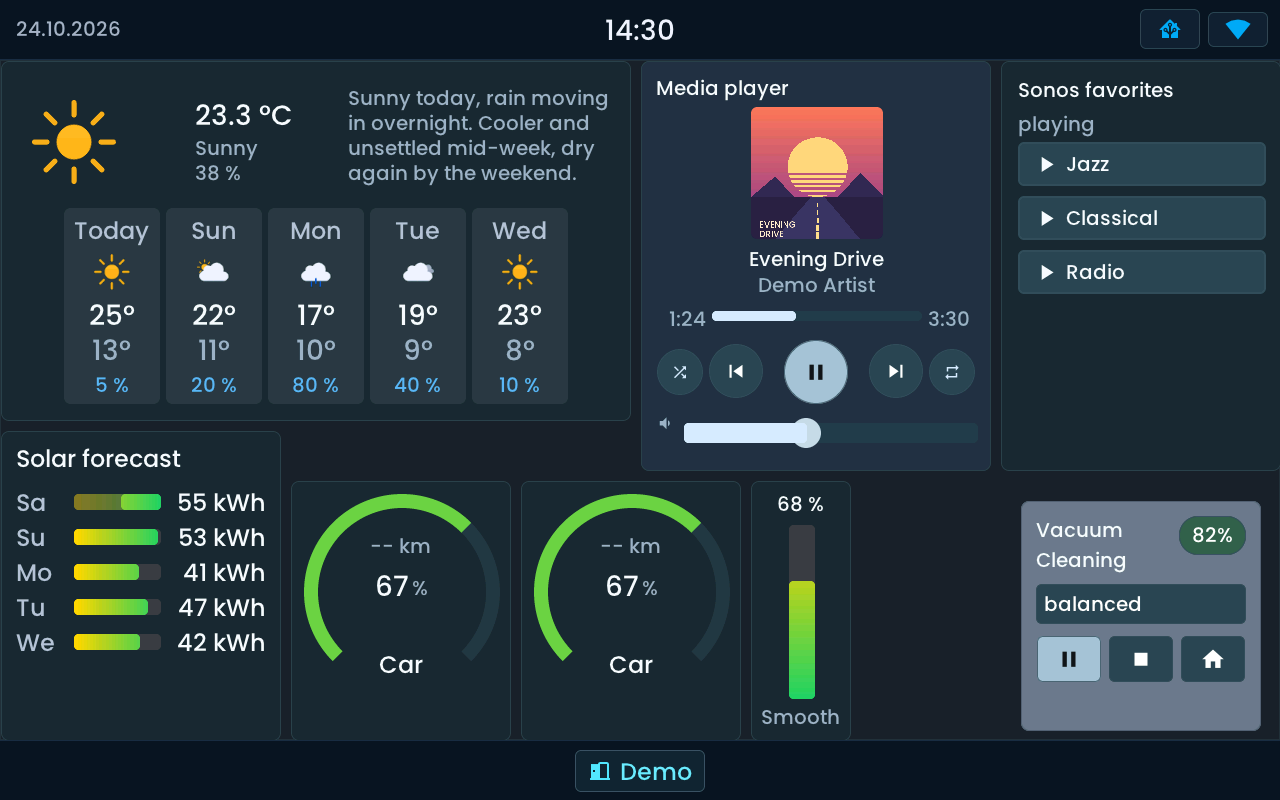
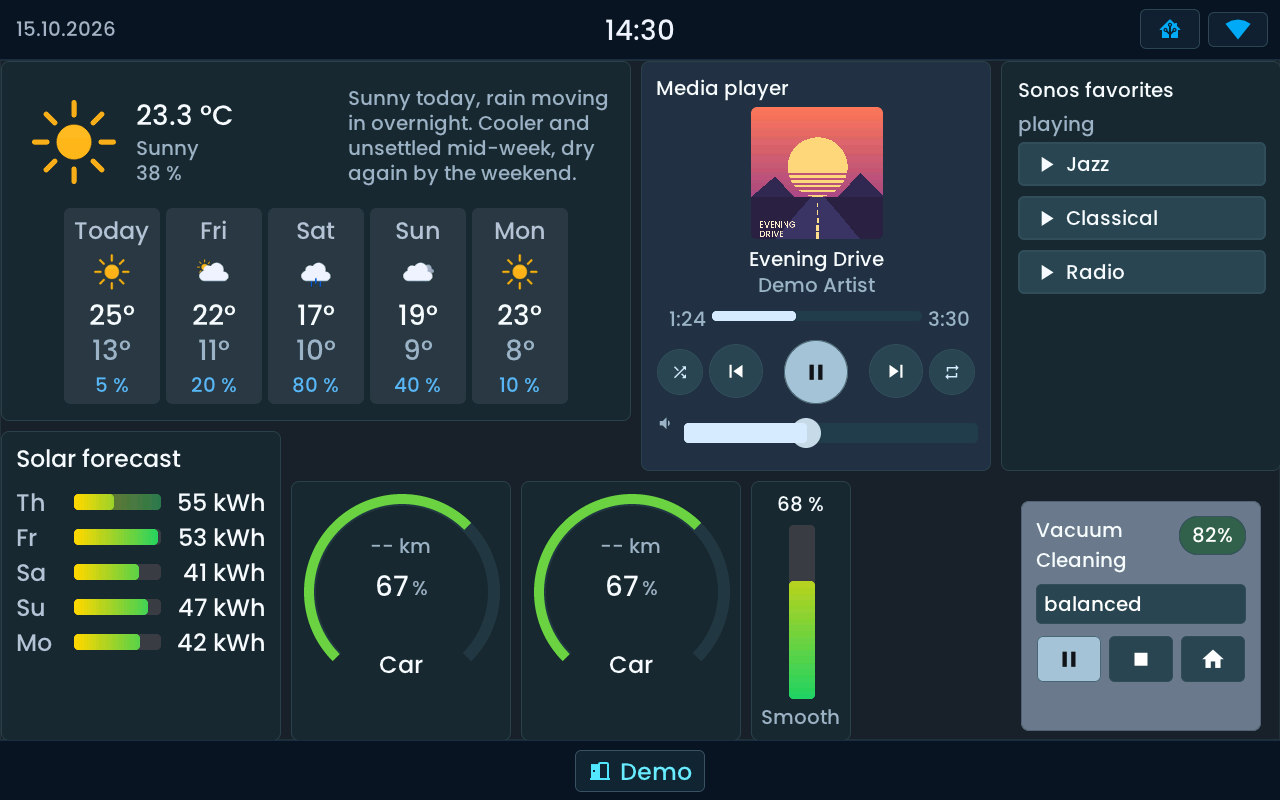
docs: regenerate the example captures with a fixed clock
generate_docs_examples.py takes --now like the simulator gallery and
uses the shared fixed test clock by default, so the captures and the
date in the top bar no longer change on every run.

diff --git a/tools/generate_docs_examples.py b/tools/generate_docs_examples.py
@@ -20,12 +20,14 @@ from http.server import SimpleHTTPRequestHandler, ThreadingHTTPServer
 from pathlib import Path
 from urllib.parse import parse_qs, urlsplit
 
-from generate_simulator_gallery import DATA, REPO, TOP_BAR_H, build_simulator, check_run, demo_page, prepare_fixture
+from generate_simulator_gallery import (DATA, FIXED_NOW, REPO, TOP_BAR_H, build_simulator, check_run, demo_page, prepare_fixture,
+                                        use_fixed_clock)
 
 OUT = REPO / "docs/img/examples"
 WWW = REPO / "components/webui/www"
 # Widgets whose guide shows the inspector: many options, or options that depend on the entity.
 # Wallbox and Bambu printer are left out: their inspector fills from device detection, which the demo API does not offer.
+CAPTURE_DATE = date.today()  # set by main() from --now
 INSPECTOR_KINDS = ["sensor", "graph", "gauge", "energy_price_forecast", "parqet_portfolio", "stock_quotes", "room_tile", "energy_timeline"]
 
 
@@ -77,7 +79,7 @@ def fixtures():
     for state in gallery["states"]:
         state["age_seconds"] = 120
     shared = {"version": 1, "alerts": [], "states": gallery["states"],
-              "frame": {"date": date.today().strftime("%d.%m.%Y"), "time": "14:30", "weather_temperature": "23 °C"}}
+              "frame": {"date": CAPTURE_DATE.strftime("%d.%m.%Y"), "time": "14:30", "weather_temperature": "23 °C"}}
     house = {"id": "house", "title": "House", "type": "house_dashboard", "widgets": [], "house": data["house"]}
     energy = {"id": "energy", "title": "Energy", "type": "energy_dashboard", "widgets": [], "energy": data["energy"]}
     devices_fixture = dict(shared,
@@ -524,9 +526,15 @@ def main():
     selection.add_argument("--history-only", action="store_true", help="Render a 24-hour temperature graph and motion history popup")
     selection.add_argument("--energy-details-only", action="store_true", help="Render the Energy page's seven-day details (side panel and popup)")
     selection.add_argument("--inspector-only", action="store_true", help="Capture the inspector of the widgets whose guide shows it")
+    parser.add_argument("--now", default=FIXED_NOW,
+                        help="clock of the simulators and the top bar: local time YYYY-MM-DDTHH:MM (Berlin) or real (default: the fixed gallery clock)")
     parser.add_argument("--browser-executable", help="Use an installed Chromium browser instead of Playwright's")
     args = parser.parse_args()
     args.output.mkdir(parents=True, exist_ok=True)
+    global CAPTURE_DATE
+    seconds = use_fixed_clock(args.now)
+    if seconds is not None:
+        CAPTURE_DATE = date.fromtimestamp(seconds)
     if args.inspector_only:
         capture_inspectors(args.output, args.browser_executable)
         return
